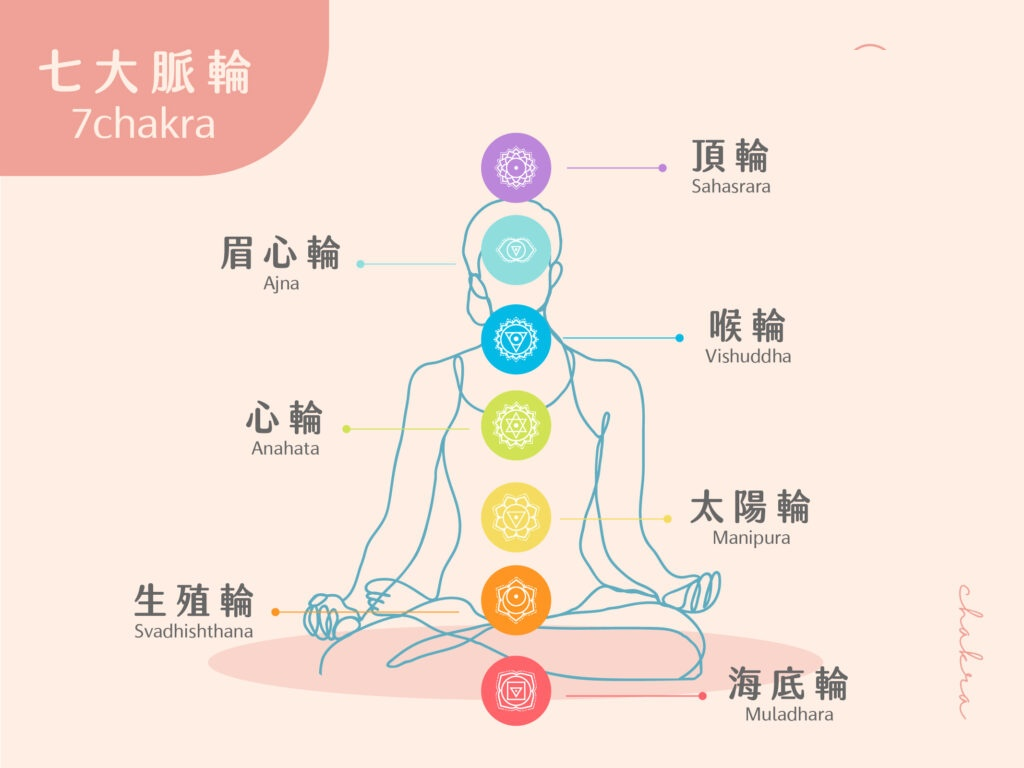
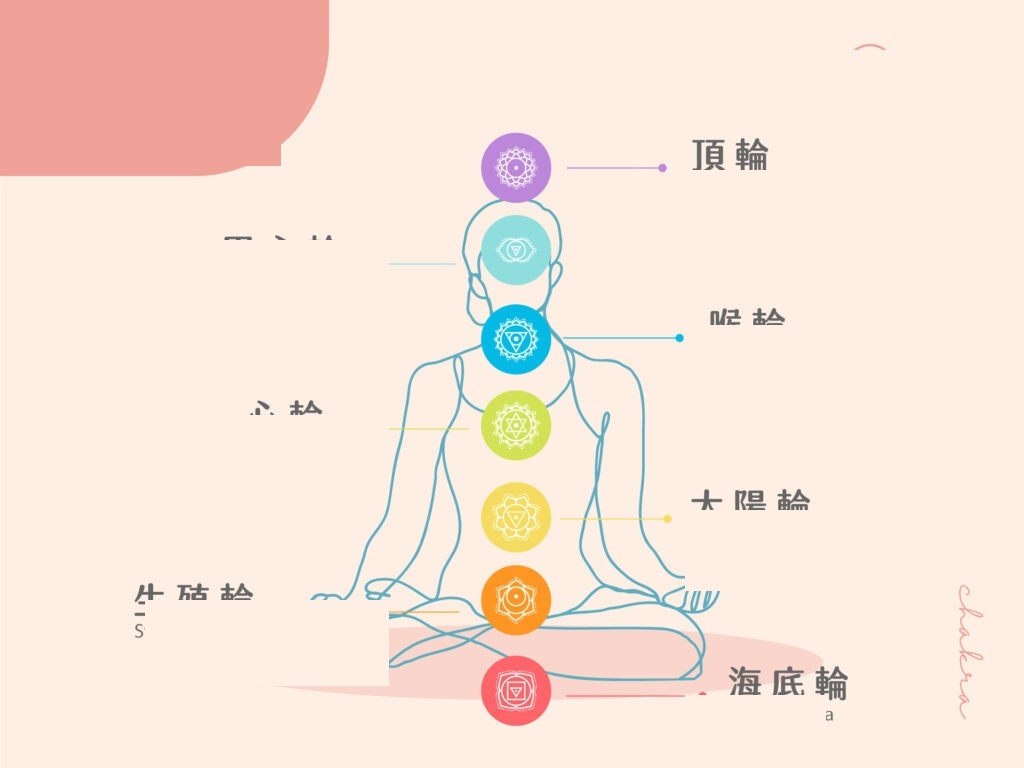
脈輪圖標籤統一正名
- 標題「七大脈輪」→「幸福脈輪」
- 「生殖輪」→「臍輪」
- 「太陽輪」→「太陽神經叢輪」
- 「眉心輪」→「眉心輪(三眼輪)」
- 原圖文字以 PIL 塗除,新文字以 CSS 對齊覆蓋

diff --git a/index.html b/index.html
@@ -54,6 +54,57 @@
     background: rgba(255,255,255,0);
     transition: background 0.25s, box-shadow 0.25s, transform 0.25s;
   }
+  /* 左上粉色塊的標題(原圖文字已塗除) */
+  .cover-title {
+    position: absolute;
+    top: 5%;
+    left: 4%;
+    width: 22%;
+    color: #fff;
+    text-align: center;
+    pointer-events: none;
+  }
+  .cover-title .zh {
+    font-size: clamp(20px, 2.8vw, 32px);
+    font-weight: 500;
+    letter-spacing: 6px;
+    line-height: 1.2;
+  }
+  .cover-title .en {
+    font-size: clamp(12px, 1.5vw, 17px);
+    letter-spacing: 4px;
+    opacity: 0.95;
+    margin-top: 4px;
+  }
+
+  /* 7 個脈輪標籤 */
+  .cover-label {
+    position: absolute;
+    color: #4a4a4a;
+    pointer-events: none;
+    transform: translateY(-50%);
+    line-height: 1.1;
+  }
+  .cover-label.right { left: 67%; text-align: left; }
+  .cover-label.left { right: 62%; text-align: right; }
+  .cover-label .zh {
+    font-size: clamp(15px, 2.3vw, 26px);
+    font-weight: 500;
+    letter-spacing: 3px;
+  }
+  .cover-label .zh small {
+    font-size: 0.6em;
+    opacity: 0.75;
+    letter-spacing: 2px;
+    margin-left: 2px;
+  }
+  .cover-label .en {
+    font-size: clamp(9px, 1.1vw, 13px);
+    color: #8a7060;
+    letter-spacing: 2px;
+    margin-top: 4px;
+  }
+
   /* 右上角品牌名(原 logo 已從圖片本身塗除) */
   .brand-cover {
     position: absolute;
@@ -397,6 +448,17 @@
       <div class="zh">幸福七脈輪</div>
       <div class="en">SEVEN CHAKRAS</div>
     </div>
+    <div class="cover-title">
+      <div class="zh">幸福脈輪</div>
+      <div class="en">7 Chakras</div>
+    </div>
+    <div class="cover-label right" style="top:26%"><div class="zh">頂輪</div><div class="en">Sahasrara</div></div>
+    <div class="cover-label left"  style="top:36%"><div class="zh">眉心輪<small>(三眼輪)</small></div><div class="en">Ajna</div></div>
+    <div class="cover-label right" style="top:47%"><div class="zh">喉輪</div><div class="en">Vishuddha</div></div>
+    <div class="cover-label left"  style="top:59%"><div class="zh">心輪</div><div class="en">Anahata</div></div>
+    <div class="cover-label right" style="top:71%"><div class="zh">太陽神經叢輪</div><div class="en">Manipura</div></div>
+    <div class="cover-label left"  style="top:83%"><div class="zh">臍輪</div><div class="en">Svadhishthana</div></div>
+    <div class="cover-label right" style="top:96%"><div class="zh">海底輪</div><div class="en">Muladhara</div></div>
     <div class="hotspot" data-key="crown"   style="left:50.4%; top:21.5%"></div>
     <div class="hotspot" data-key="brow"    style="left:50.4%; top:32.3%"></div>
     <div class="hotspot" data-key="throat"  style="left:50.4%; top:43.6%"></div>
